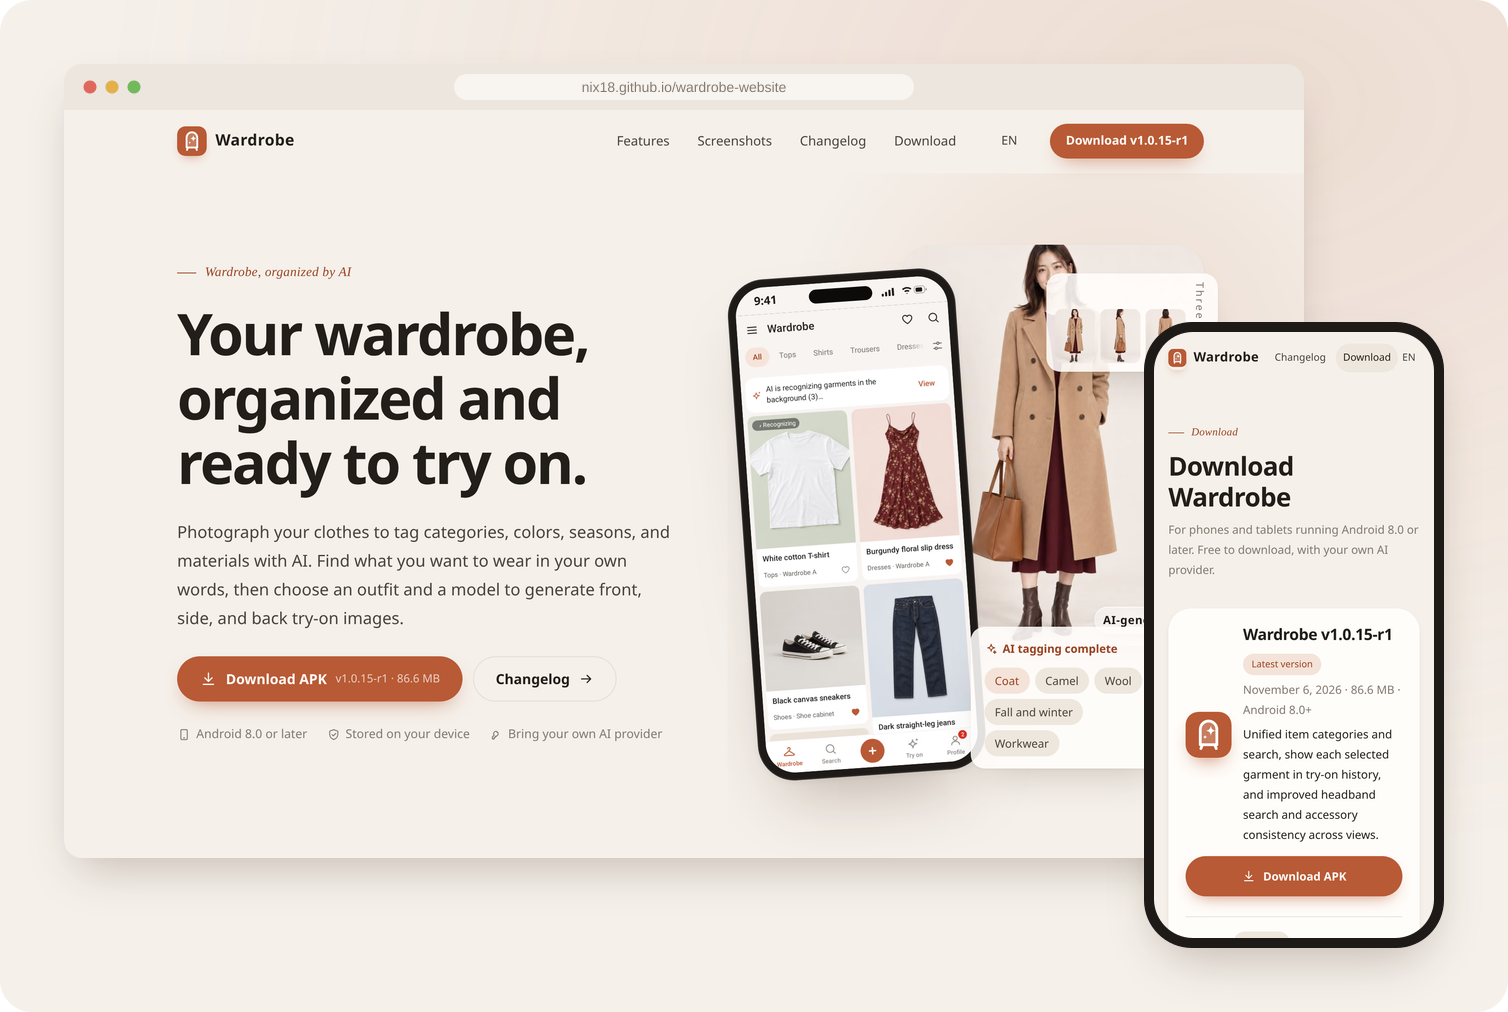
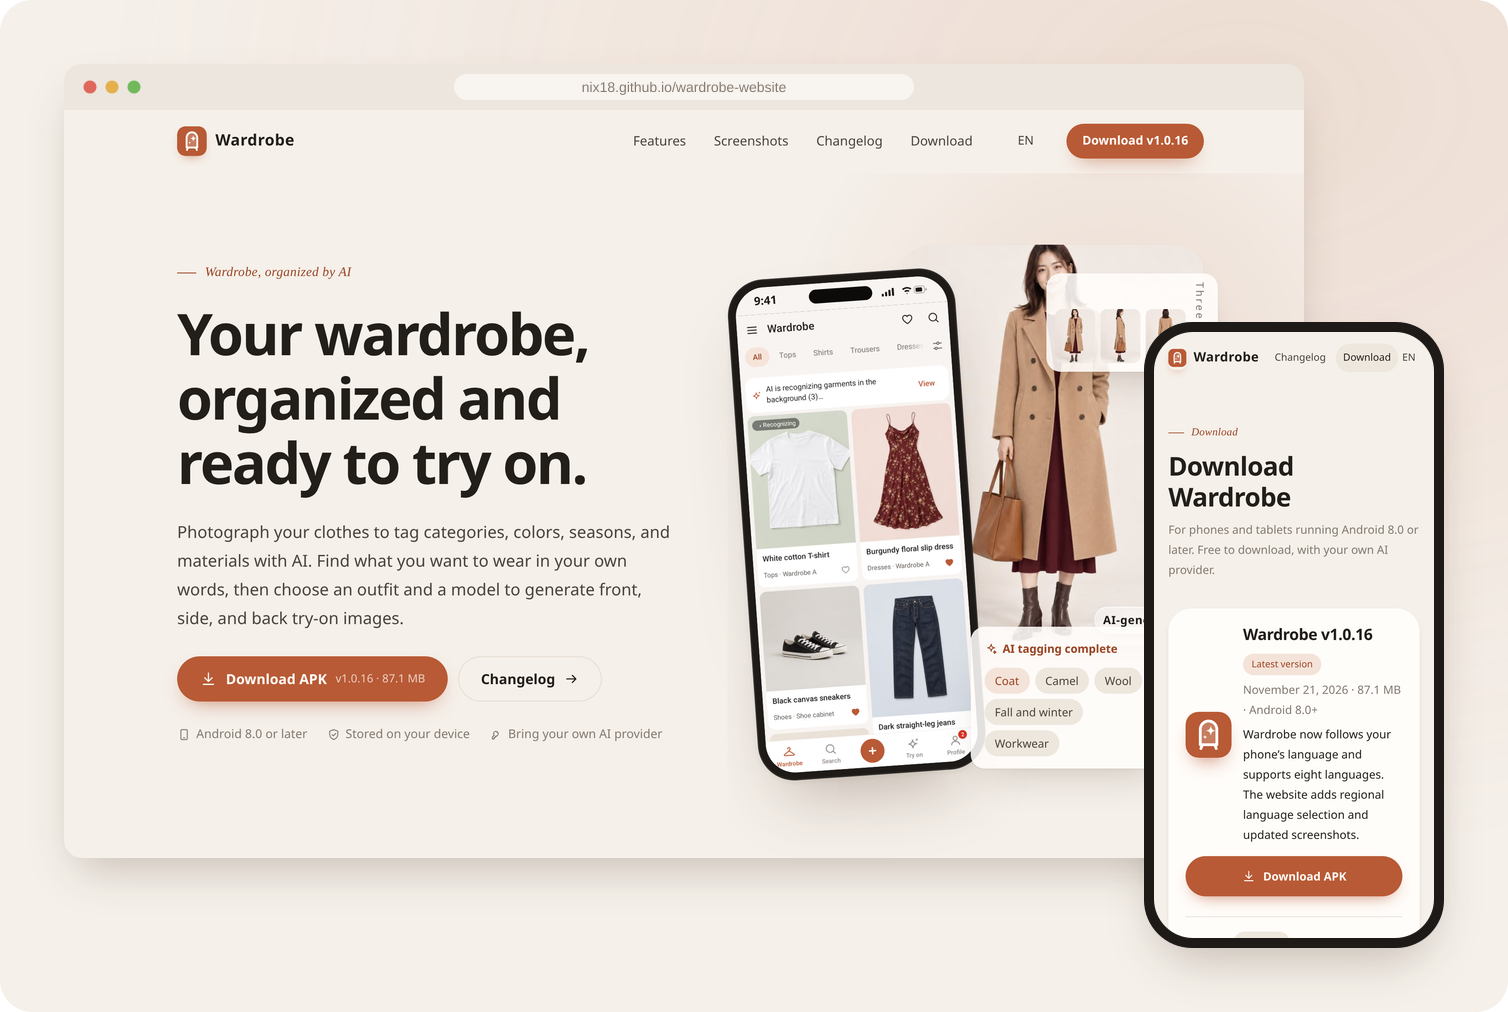
Publish v1.0.16 download details and refresh site previews

diff --git a/src/content/releases/v1.0.16.md b/src/content/releases/v1.0.16.md
@@ -1,0 +1,13 @@
+---
+version: '1.0.16'
+date: 2026-11-20T18:23:18.582Z
+size: 91353867
[1 lines of base64/hex data omitted]
+summary: "小衣柜跟随手机语言，新增八种语言支持。网站按访问地区切换语言，并更新界面截图。"
+---
+
+# 小衣柜 v1.0.16
+
+- App 跟随手机语言，支持简体中文、繁體中文、英语、法语、葡萄牙语、西班牙语、德语和日语。其他语言回退到英语。
+- 主界面、设置、隐私政策、预设背景和动作说明随应用语言显示。Android 13 及以上可在系统设置中单独选择小衣柜的语言。
+- 网站按访问地区选择语言，并提供可记住偏好的语言菜单。项目和网站的 README 提供中英文版及更新后的截图。

diff --git a/src/data/releases/ja/v1.0.16.md b/src/data/releases/ja/v1.0.16.md
@@ -1,0 +1,5 @@
+# v1.0.16
+
+- Wardrobe はスマートフォンの言語設定に従います。簡体字中国語、繁体字中国語、英語、フランス語、ポルトガル語、スペイン語、ドイツ語、日本語に対応し、その他の言語では英語を表示します。
+- 画面、設定、プライバシーポリシー、背景、ポーズの説明がアプリの言語に切り替わります。Android 13 以降では、システム設定で Wardrobe の言語を個別に選べます。
+- ウェブサイトは地域に合わせて言語を選び、手動で選んだ言語も記憶します。英語と中国語の README に新しいスクリーンショットを掲載しました。

diff --git a/src/data/releases/fr/v1.0.16.md b/src/data/releases/fr/v1.0.16.md
@@ -1,0 +1,5 @@
+# v1.0.16
+
+- Wardrobe suit la langue du téléphone et prend en charge le chinois simplifié, le chinois traditionnel, l’anglais, le français, le portugais, l’espagnol, l’allemand et le japonais. L’anglais est utilisé pour les autres langues.
+- L’interface, les réglages, la politique de confidentialité, les arrière-plans et les descriptions des poses suivent la langue de l’application. Android 13 ou ultérieur permet de choisir une langue propre à Wardrobe.
+- Le site choisit une langue selon la région et mémorise vos préférences. Les README anglais et chinois présentent des captures d’écran à jour.

diff --git a/src/data/releases/de/v1.0.16.md b/src/data/releases/de/v1.0.16.md
@@ -1,0 +1,5 @@
+# v1.0.16
+
+- Wardrobe übernimmt die Sprache des Telefons und unterstützt vereinfachtes und traditionelles Chinesisch, Englisch, Französisch, Portugiesisch, Spanisch, Deutsch und Japanisch. Für andere Sprachen wird Englisch verwendet.
+- Die Oberfläche, Einstellungen, Datenschutzerklärung, Hintergründe und Posenbeschreibungen folgen der App-Sprache. Ab Android 13 lässt sich die Sprache von Wardrobe in den Systemeinstellungen einzeln festlegen.
+- Die Website wählt die Sprache nach Region und merkt sich deine manuelle Auswahl. Die englischen und chinesischen README-Dateien enthalten aktualisierte Screenshots.

diff --git a/src/data/releases/pt/v1.0.16.md b/src/data/releases/pt/v1.0.16.md
@@ -1,0 +1,5 @@
+# v1.0.16
+
+- O Wardrobe acompanha o idioma do celular e oferece chinês simplificado, chinês tradicional, inglês, francês, português, espanhol, alemão e japonês. O inglês é usado nos demais casos.
+- A interface, as configurações, a política de privacidade, os fundos e as descrições de poses acompanham o idioma do aplicativo. No Android 13 ou superior, é possível escolher um idioma para o Wardrobe nas configurações do sistema.
+- O site escolhe o idioma pela região e lembra a preferência manual. Os READMEs em inglês e chinês receberam novas capturas de tela.

diff --git a/src/data/releases/es/v1.0.16.md b/src/data/releases/es/v1.0.16.md
@@ -1,0 +1,5 @@
+# v1.0.16
+
+- Wardrobe sigue el idioma del teléfono y admite chino simplificado, chino tradicional, inglés, francés, portugués, español, alemán y japonés. Para los demás idiomas se utiliza el inglés.
+- La interfaz, los ajustes, la política de privacidad, los fondos y las descripciones de poses siguen el idioma de la aplicación. En Android 13 o posterior puedes elegir un idioma para Wardrobe en los ajustes del sistema.
+- El sitio elige el idioma según la región y recuerda tu elección manual. Los README en inglés y chino incluyen capturas nuevas.

diff --git a/src/data/releases/en/v1.0.16.md b/src/data/releases/en/v1.0.16.md
@@ -1,0 +1,5 @@
+# v1.0.16
+
+- Wardrobe follows your phone’s language and supports Simplified Chinese, Traditional Chinese, English, French, Portuguese, Spanish, German, and Japanese. Other languages fall back to English.
+- The interface, settings, privacy policy, backgrounds, and pose descriptions follow the app language. On Android 13 or later, you can choose a different language for Wardrobe in system settings.
+- The website selects a language by region and remembers your manual preference. Both READMEs have updated English and Chinese screenshots.

diff --git a/src/data/releases/zh-hant/v1.0.16.md b/src/data/releases/zh-hant/v1.0.16.md
@@ -1,0 +1,5 @@
+# v1.0.16
+
+- 小衣櫃跟隨手機語言，支援簡體中文、繁體中文、英語、法語、葡萄牙語、西班牙語、德語和日語。其他語言會顯示英語。
+- 主介面、設定、隱私政策、預設背景和動作說明跟隨 App 語言。Android 13 以上可在系統設定中單獨選擇小衣櫃的語言。
+- 網站依訪客地區選擇語言，也會記住手動選擇。App 和網站的中英文 README 都已更新截圖。
